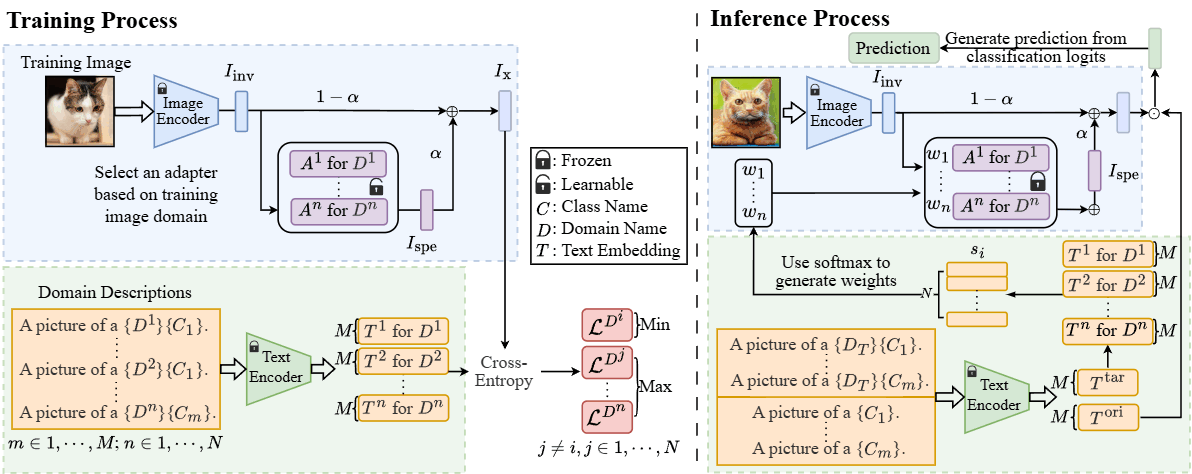
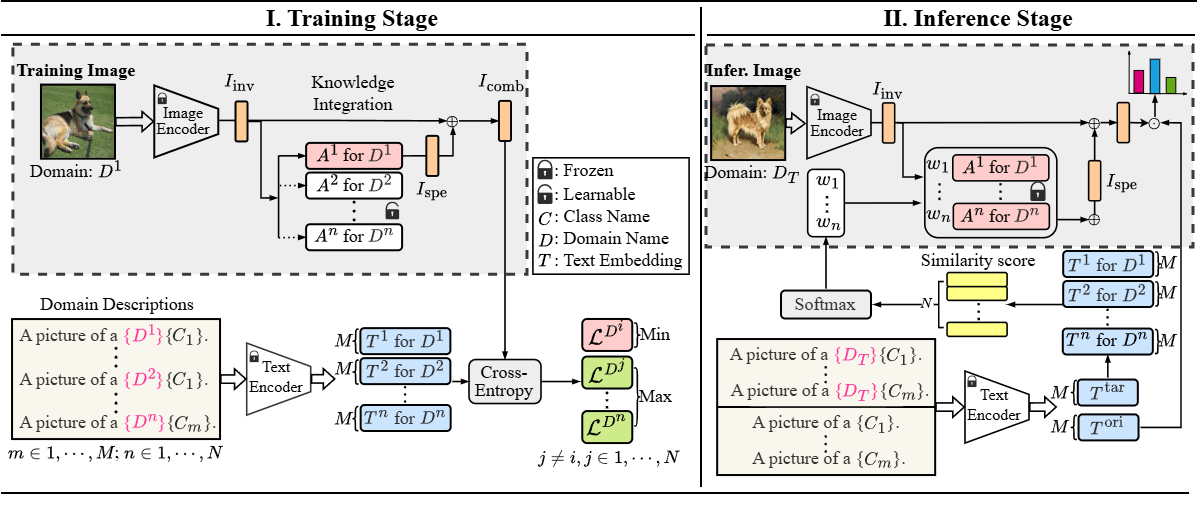
update README

diff --git a/README.md b/README.md
@@ -1,8 +1,8 @@
-# Enhancing Domain Generalization: Leveraging Domain-Specific Knowledge through the Guidance of Domain Descriptions
+# Domain-Specific Knowledge through Domain Description for Generalization
 ![ODE_framework](ODE_framework.png)
 
 ## Abstract
-Many Domain Generalization (DG) methods aim to learn domain-invariant representations from multiple source domains, enabling models to adapt to unseen target domains. While these methods have shown promise, they often neglect the value of domain-specific knowledge, which, though unique to each source domain, can still be relevant to unseen targets. We propose the Domain Description-Guided Experts (ODE) framework, which enhances DG by leveraging domain descriptions formulated as prompts incorporating domain names, to guide both the learning and utilization of domain-specific knowledge. During training, ODE employs parameter-efficient adapters as domain experts and leverages domain descriptions to guide domain-specific knowledge learning through text-image contrastive learning. These domain experts share a backbone network to maintain domain-invariant representations while learning unique domain characteristics. During inference, ODE leverages similarities between domain descriptions to determine the relevance of source domains to the target domain, guiding the integration of domain-specific knowledge. Experiments across seven benchmark datasets demonstrate the effectiveness of ODE, setting a new benchmark of 95.5% average accuracy on the PACS dataset.
+Most domain generalization methods focus on learning domain-invariant knowledge from source domains, neglecting the value of domain-specific knowledge, which, though unique to each source domain, can also improve the model's generalizability to unseen domains. To fill this gap, we propose the dOmain Description-guided Experts (ODE) framework, which leverages domain description to guide the utilization of domain-specific knowledge during both training and inference phases. Specifically, the domain descriptions are formulated as prompts incorporating domain names. During training, ODE constructs multiple domain experts, each specializing in a specific source domain. These domain experts leverage domain descriptions to facilitate the learning of domain-specific knowledge through text-image contrastive learning. By sharing a frozen, pretrained backbone network while only training the domain experts, ODE preserves domain-invariant knowledge while capturing unique domain knowledge. During inference, ODE computes the similarities between target and source domain descriptions to determine the relevance of each source domain to the unseen target domain. It then leverages domain-specific knowledge from the domain with the highest similarity to facilitate the inference. Moreover, we propose a strategy that allows ODE to integrate domain-specific knowledge from multiple domains, further improving generalization performance. Experiments across seven benchmark datasets demonstrate the effectiveness of ODE, setting a new benchmark of 95.5\% average accuracy on the PACS dataset.
 
 ## Baselines
 DG approachs:
